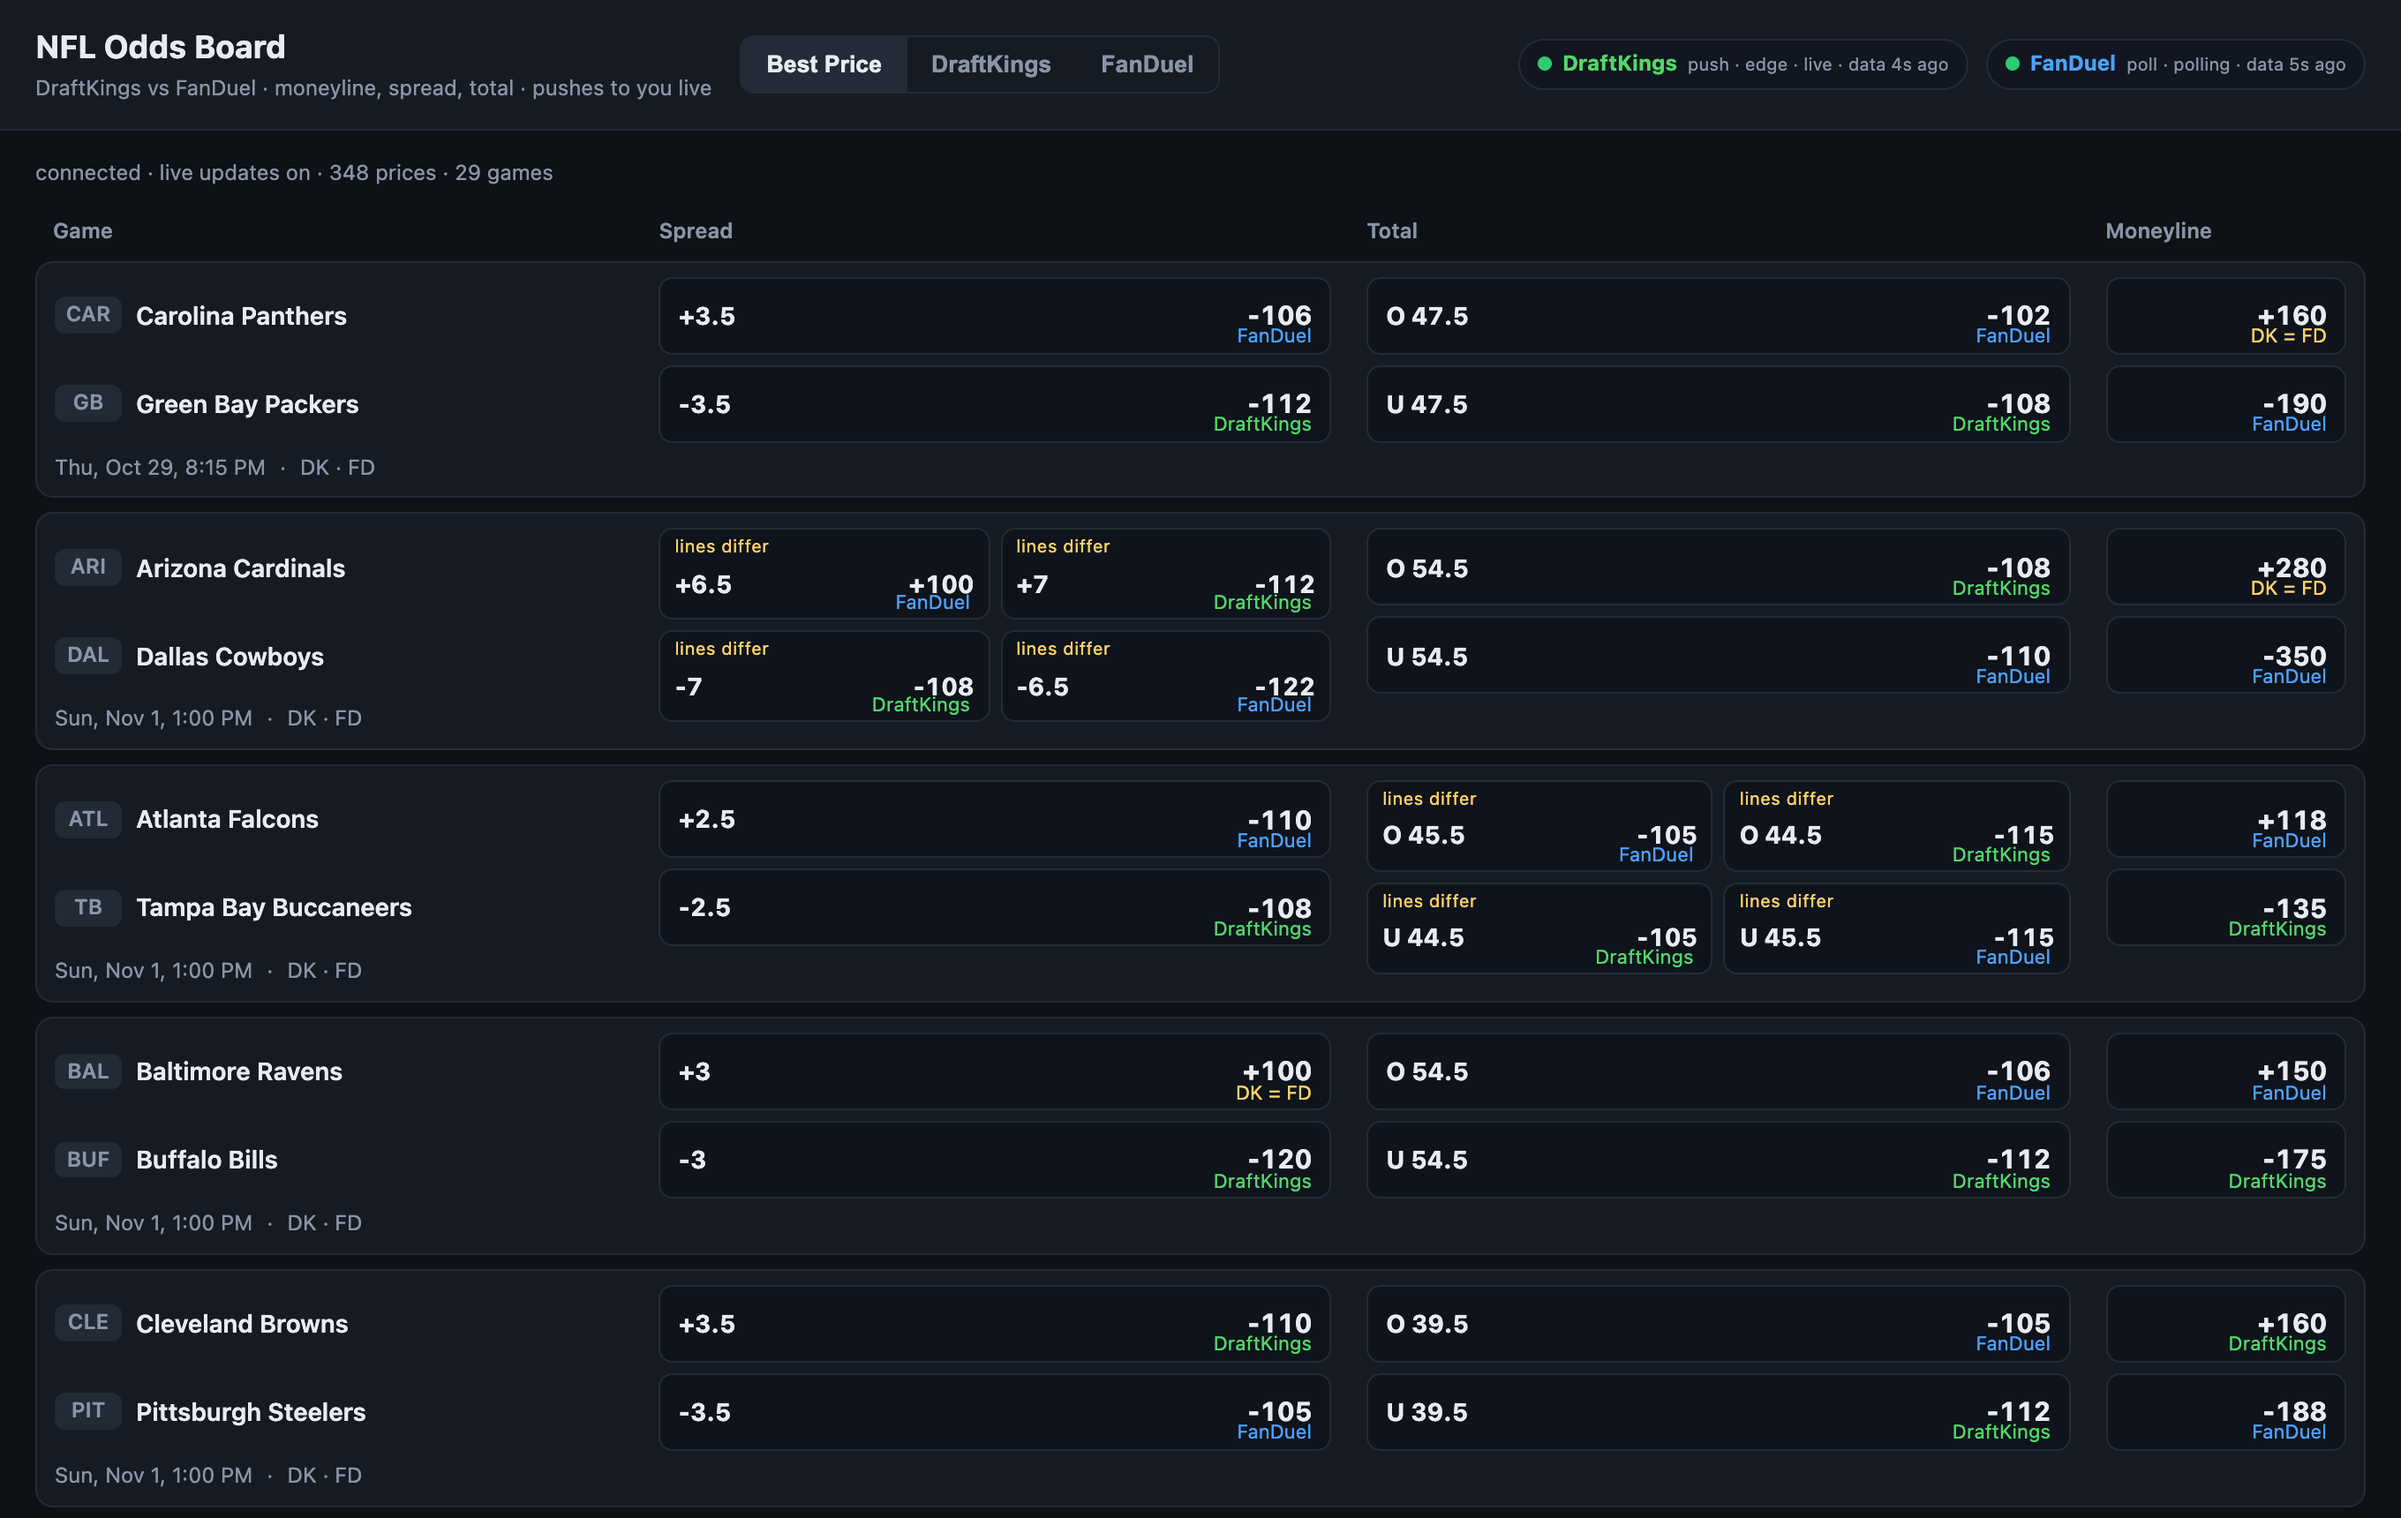
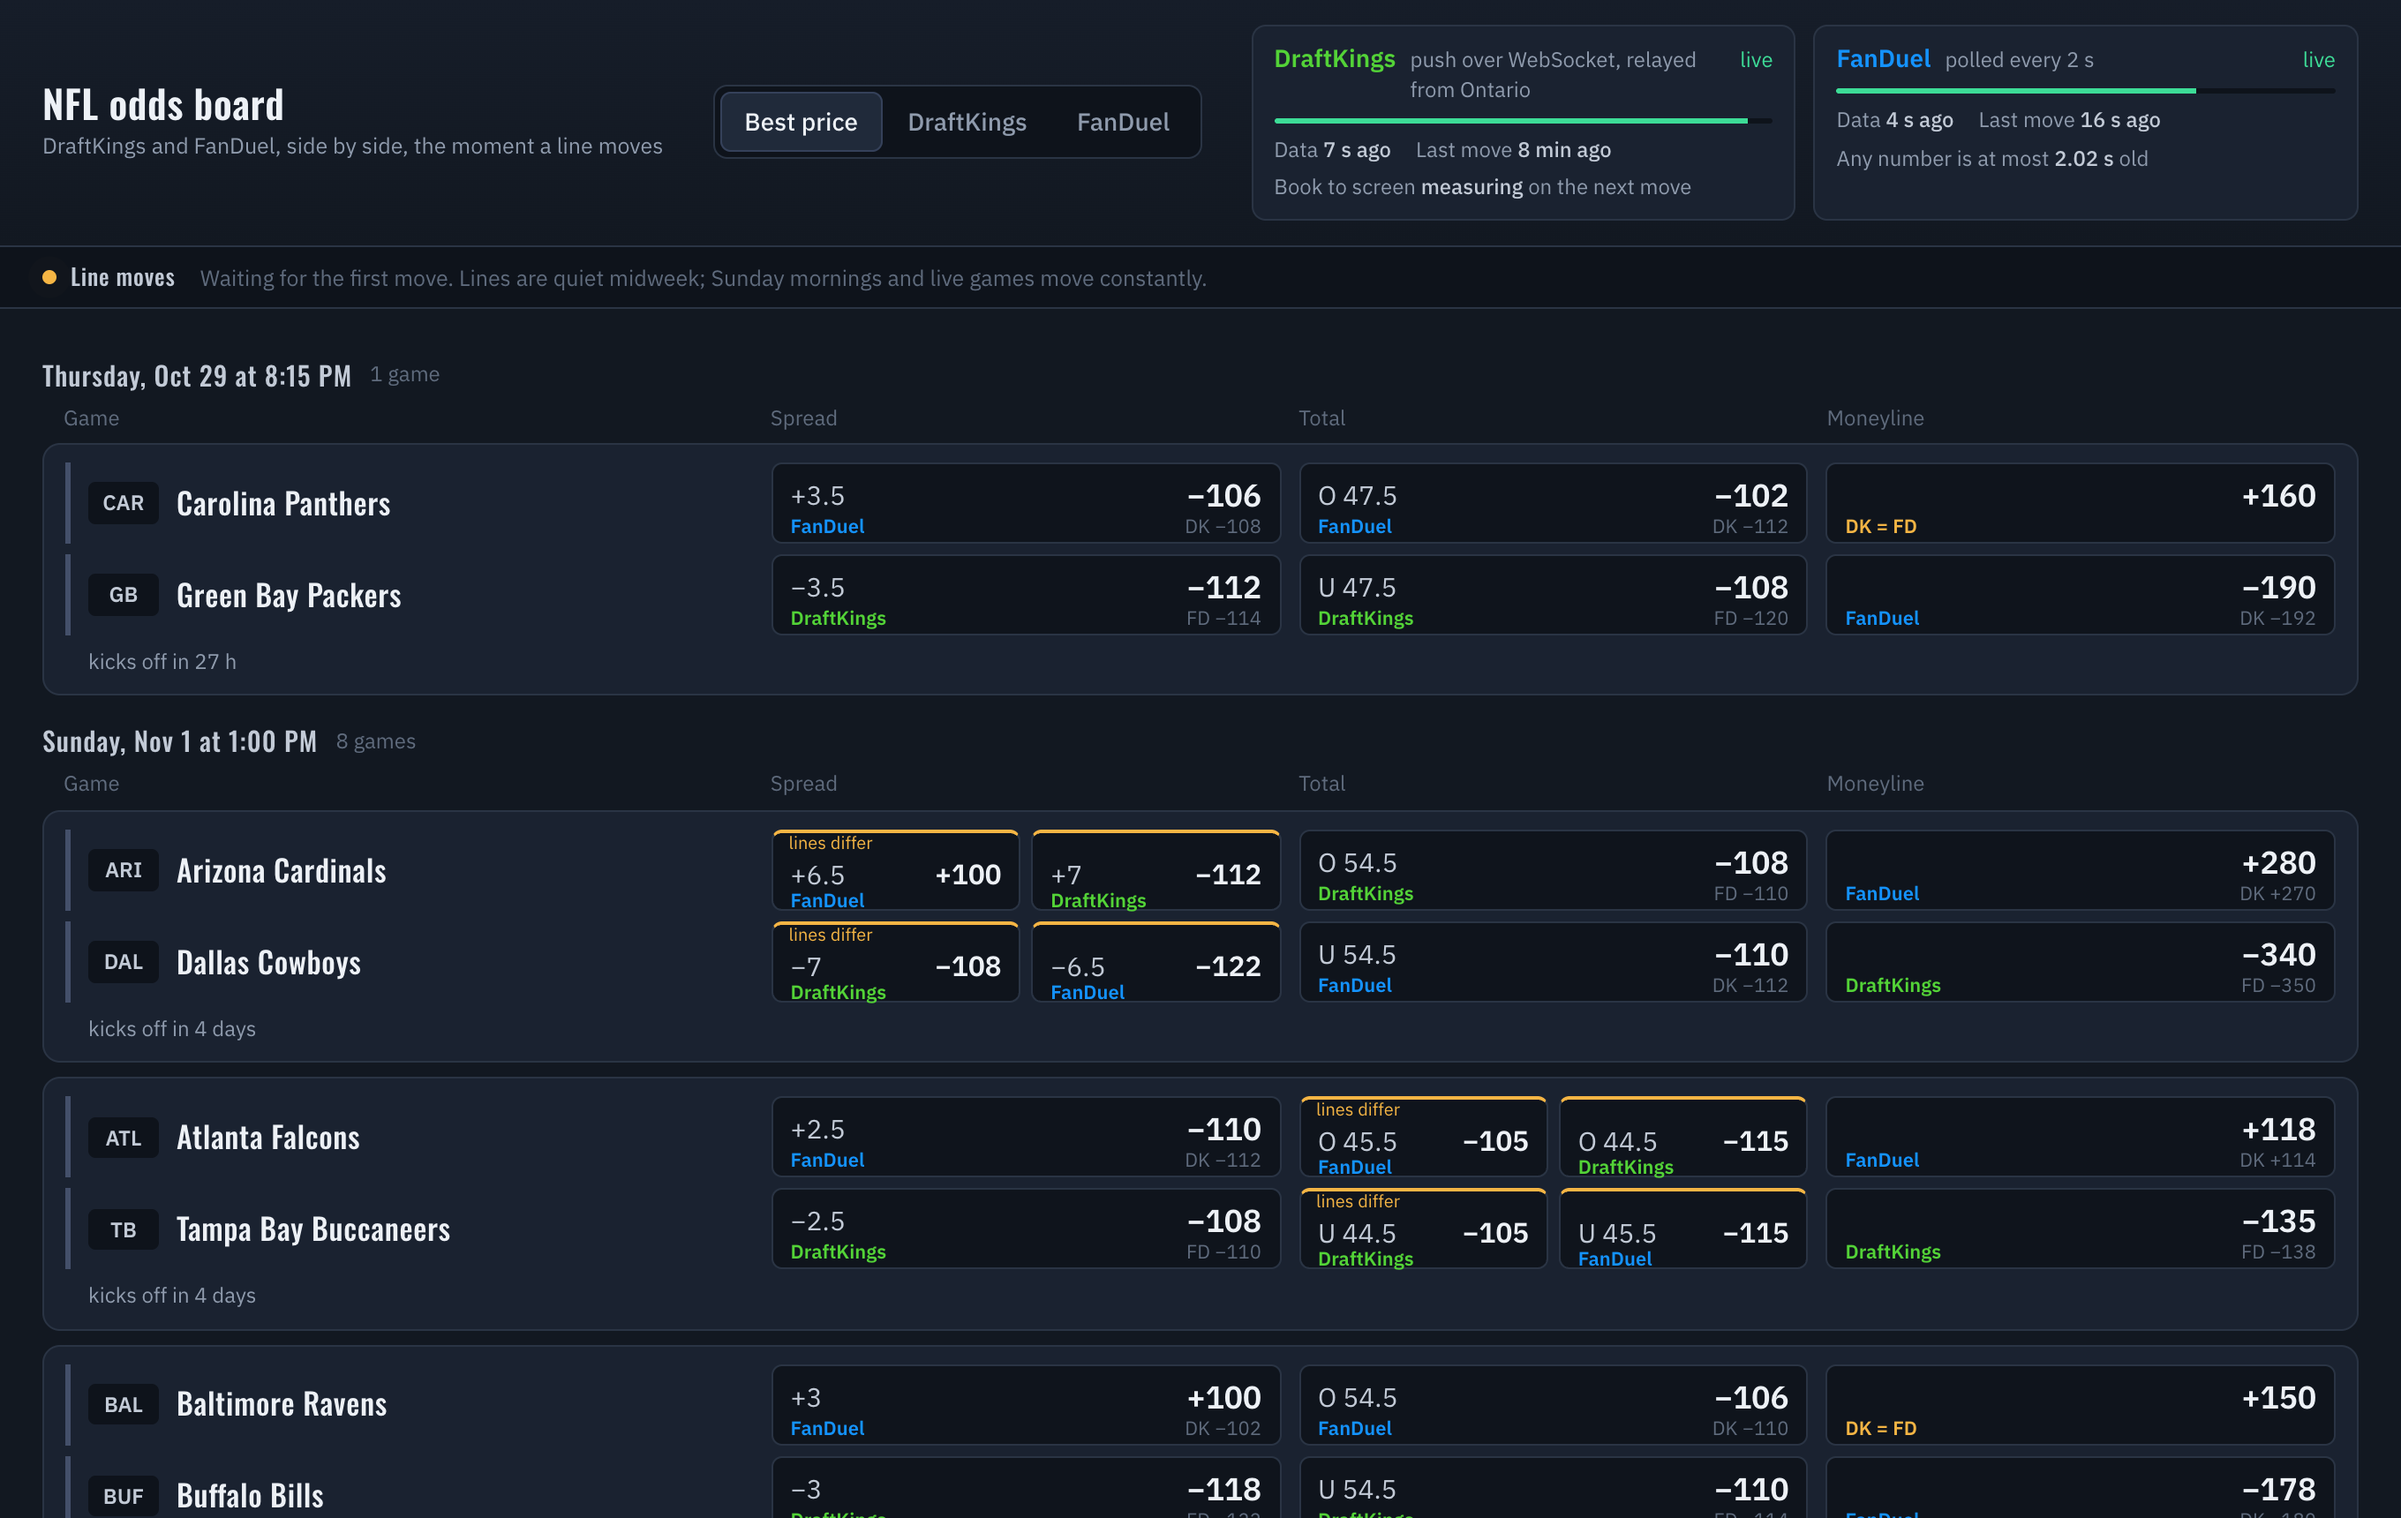
README: what is on the page, above-and-beyond checklist, read-only note; shorter relay label
Claude-Session: https://claude.ai/code/session_01H1YqGmVDtb9638AkYcAarz

diff --git a/public/app.js b/public/app.js
@@ -170,7 +170,7 @@ function renderFeeds() {
     const age = s.lastDataAt ? now - s.lastDataAt : threshold;
     const fill = Math.max(0, Math.min(1, 1 - age / threshold));
     const barColor = s.stale || s.state === 'down' ? 'var(--down)' : fill < .35 ? 'var(--best)' : 'var(--up)';
-    const mode = b === 'draftkings' ? (s.mode?.includes('edge') ? 'push over WebSocket, relayed from Ontario' : 'push over WebSocket') : `polled every ${s.pollMs ? (s.pollMs / 1000).toFixed(0) : '2'} s`;
+    const mode = b === 'draftkings' ? (s.mode?.includes('edge') ? 'push via Ontario relay' : 'push over WebSocket') : `polled every ${s.pollMs ? (s.pollMs / 1000).toFixed(0) : '2'} s`;
     const stateText = s.stale ? 'stale' : s.state === 'down' ? 'down, reconnecting' : s.state === 'connecting' ? 'connecting' : 'live';
     const r = lat.recent;
     const latency = b === 'draftkings'

diff --git a/README.md b/README.md
@@ -8,6 +8,18 @@ browser without a refresh. Toggle at the top: **Best Price / DraftKings / FanDue
 
 ![board](docs/board.png)
 
+What is on the page, beyond the board itself:
+* **Line moves tape** — every price or line change as it happens (old → new, which book, how long ago).
+* **A moved price flashes** green/red and keeps its old value struck through beside it for a few seconds.
+* **Per-book feed cards** — how the book is read (push vs poll), a freshness bar that drains as data ages, last
+  data / last move, and the latency *this browser* measured (DraftKings book→screen; FanDuel worst-case age).
+* **Stale handling** — a book that stops answering turns red, its prices grey out, a banner says so; the other book
+  keeps moving. Lost server connection → "reconnecting" banner, then a fresh snapshot.
+* Games grouped by kickoff slot, live games first; the single-book views show "updated N s ago" on every number.
+
+The scraping is read-only and login-free: the same public odds endpoints the sites' own pages call, at or below
+the rate the pages themselves use, one connection per book.
+
 ---
 
 ## 1. Run it locally
@@ -201,7 +213,16 @@ Live (in-game) numbers: the Thursday night game (CAR @ GB, Oct 29 8:15 pm ET) is
   plus an alert that fires when a book's accepted-field rate drops. I built this with Claude as a pair programmer and
   reviewed every line I am submitting.
 
-## 11. With more time
+## 11. Above & beyond checklist
+| Asked for | Done |
+| --- | --- |
+| Show the odds moving (flash / previous price) | Yes — flash + struck-through previous value + the moves tape |
+| Show latency on the page, per book | Yes — feed cards: freshness bar, data age, measured book→screen (DK) and worst-case age (FD) |
+| Reconnects, retries, and a UI that says data is stale | Yes — backoff reconnects, re-snapshot, stale flag + banner + greyed prices; browser reconnects with a new snapshot |
+| Props, alt lines, other leagues | Not built. Both feeds expose them (DK other subcategories, FD other market types / `customPageId`); the adapters take a league id and market map, so NBA is a config change plus a team table. |
+| What changes for a third book, or ten; where AI helps | §10 |
+
+## 12. With more time
 Residential/ISP egress (or a licensed-region VM) for DK instead of an edge laptop; a push chart to rank unlike lines;
 props/alt lines (both feeds already expose them under other subcategories/market types); line-history persistence;
 Prometheus metrics; a test suite around the two decoders using the recorded fixtures in `research/`.
